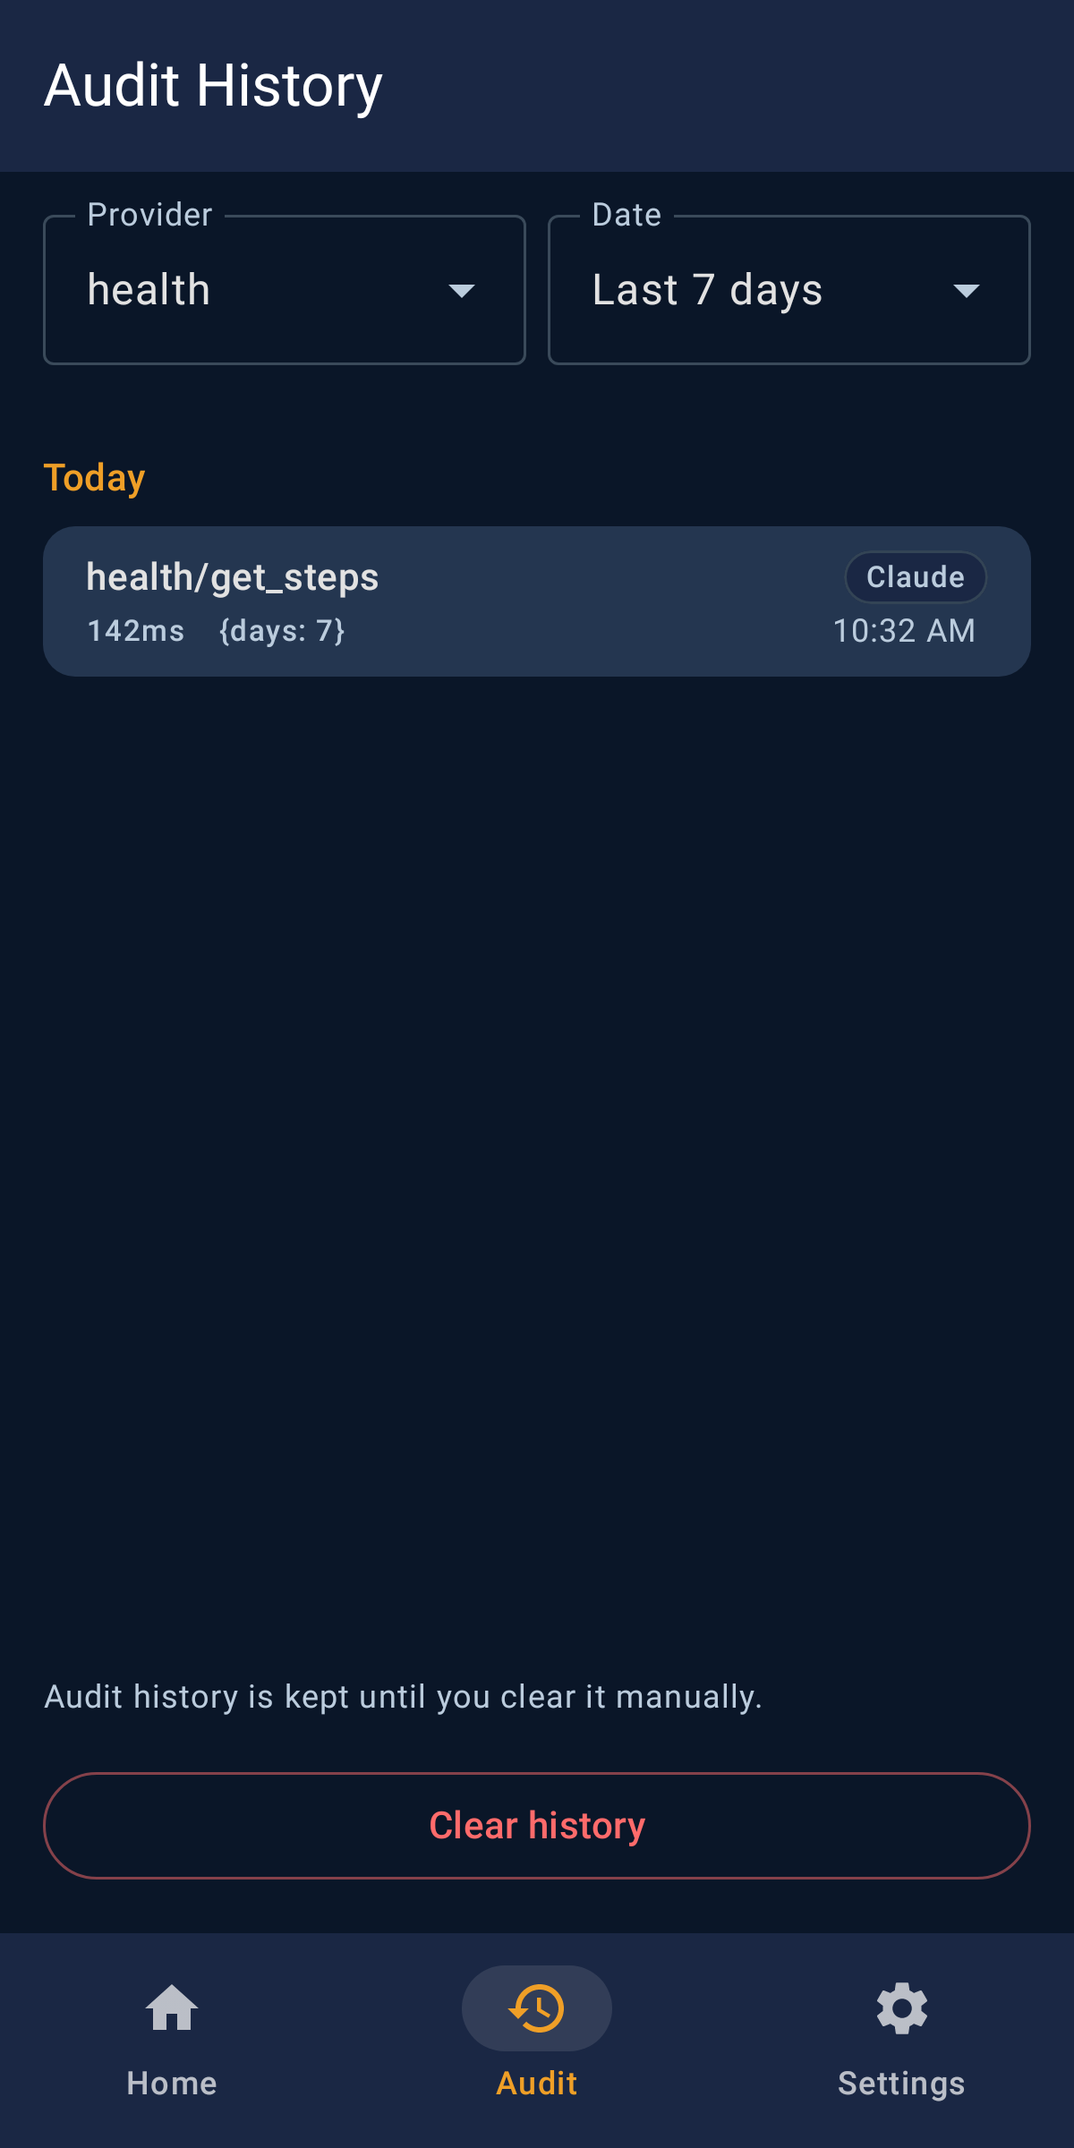
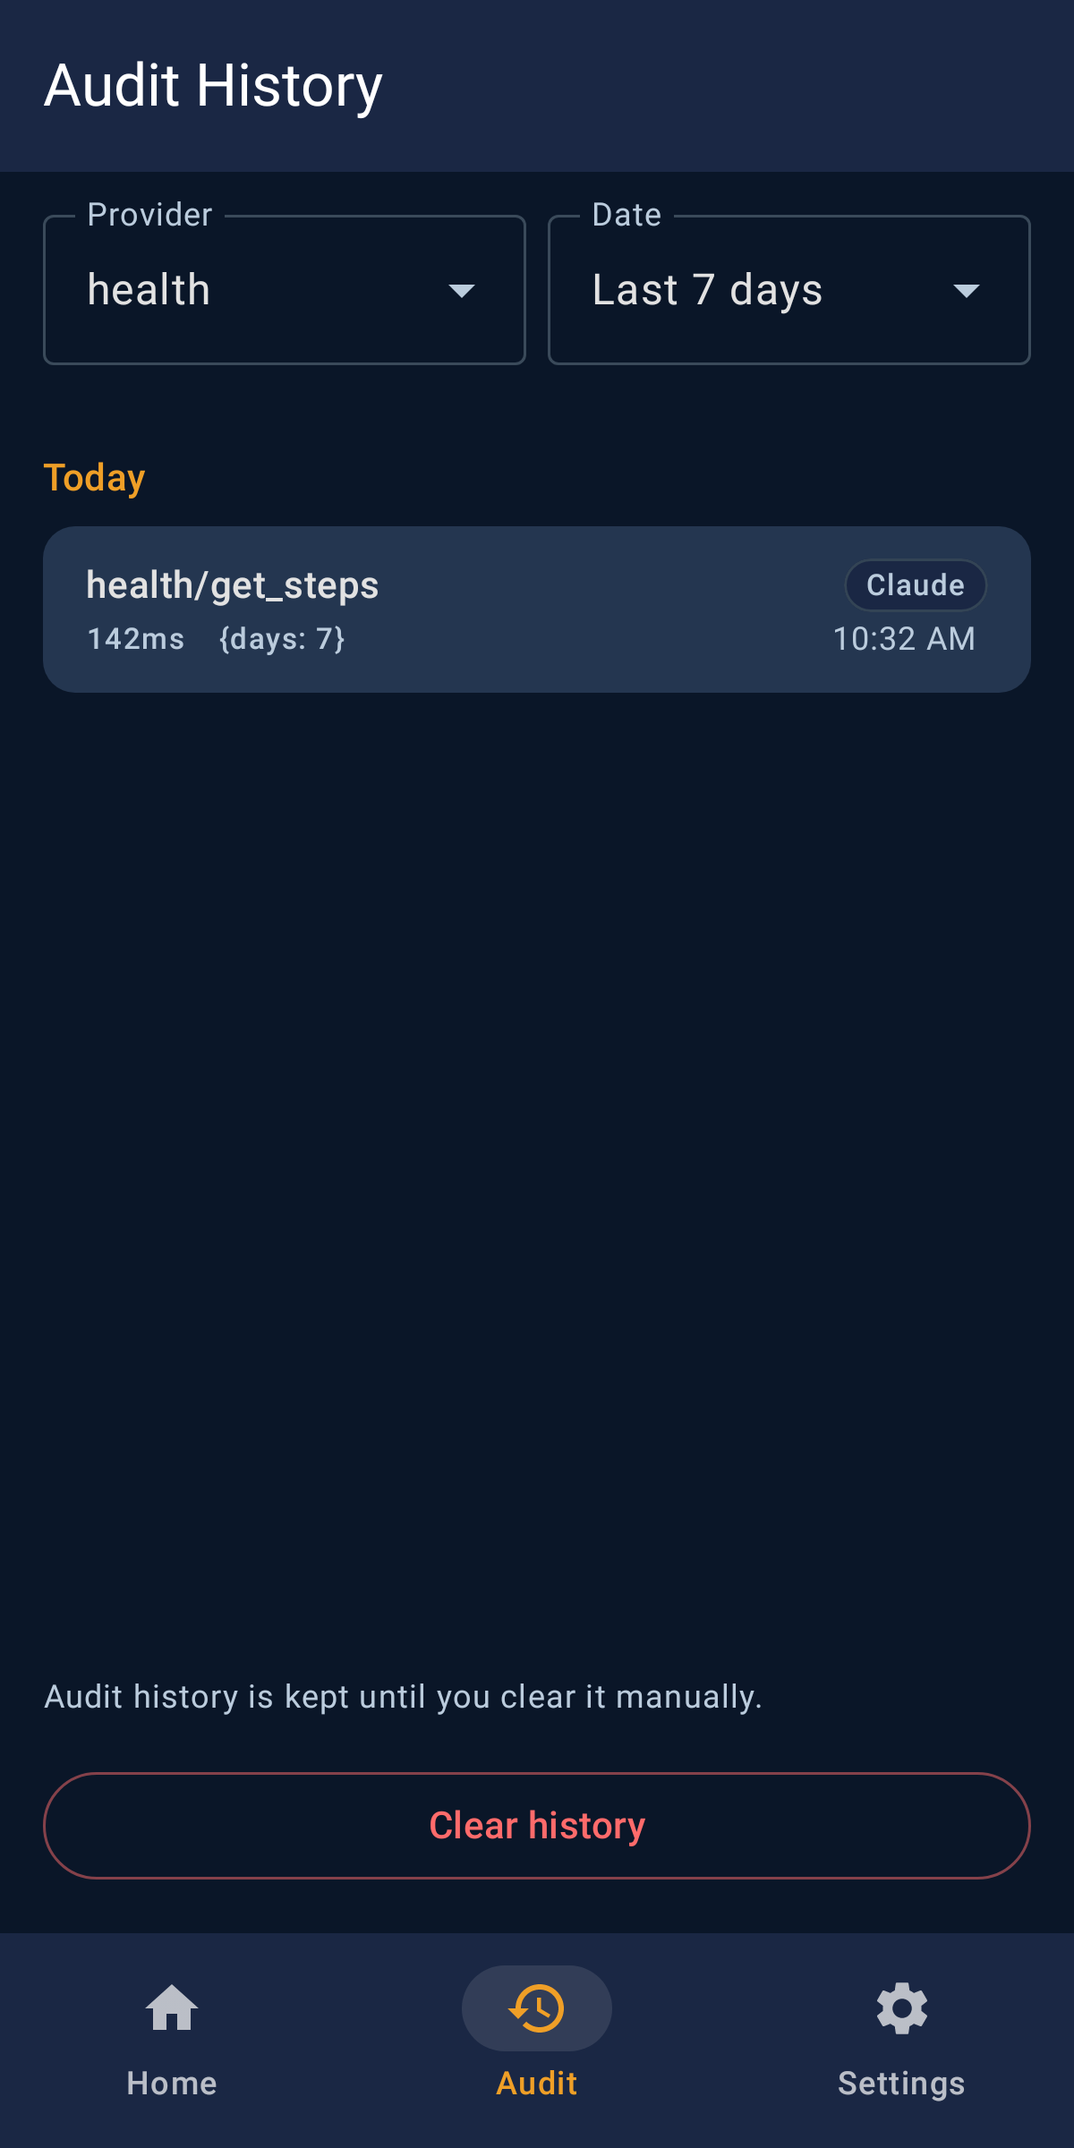
Fix #383: ToolCallRow multi-line padding + top-align time + never render ciphertext fallback
Three tightly-coupled bugs in the shared audit-row surfaces:

1. ListRow previously used `defaultMinSize(minHeight = 56.dp)` with no
   vertical padding. Single-line rows looked right (floor set by
   min-height, content centered) but multi-line content (e.g. a long
   JSON `arguments` string in ToolCallRow) grew the row height and then
   pressed flush against the top and bottom edges of the card. Replace
   the min-height floor with `padding(vertical = 12.dp)`: single-line
   rows keep a ~48 dp height which matches existing density, multi-line
   rows now have breathing room. Applied to `ListRow`,
   `ListRowWithIcon`, and `ListRowWithTrailing`.

2. `AuditHistoryViewModel.toHistoryEntry` fell back to the raw
   `entry.argumentsJson` / `entry.resultJson` columns whenever the
   FieldEncryptor was null or `decrypt()` returned null. Those columns
   hold ciphertext at rest, so the fallback rendered base64-looking
   blobs into the dashboard's Recent Activity teaser and the audit
   detail screen. Root cause of the null-encryptor path was that
   MainDashboardViewModel and IntegrationManageViewModel never received
   the encryptor. Fix both:
   - Remove the raw-column fallback everywhere. Render "" (empty) when
     decrypt is unavailable; ciphertext is never rendered as plaintext
     even if future call sites forget to wire the encryptor.
   - Thread `FieldEncryptor` through MainDashboardViewModel and
     IntegrationManageViewModel via Koin so production paths always
[…]

Changed region(s): [[0.0308, 0.25, 0.9558, 0.3438]]

diff --git a/app/src/test/java/com/rousecontext/app/ui/viewmodels/AuditHistoryViewModelTest.kt b/app/src/test/java/com/rousecontext/app/ui/viewmodels/AuditHistoryViewModelTest.kt
@@ -7,6 +7,7 @@ import com.rousecontext.api.PostSessionMode
 import com.rousecontext.app.ui.screens.AuditHistoryItem
 import com.rousecontext.app.ui.screens.DateFilterOption
 import com.rousecontext.app.ui.screens.ProviderFilterOption
+import com.rousecontext.notifications.FieldEncryptor
 import com.rousecontext.notifications.audit.AuditDao
 import com.rousecontext.notifications.audit.AuditEntry
 import com.rousecontext.notifications.audit.McpRequestDao
@@ -284,6 +285,76 @@ class AuditHistoryViewModelTest {
         val (start, end) = AuditHistoryViewModel.dateRangeFor(DateFilterOption.TODAY)
         assertTrue(start <= System.currentTimeMillis())
         assertTrue(end >= start)
+    }
+
+    @Test
+    fun `toHistoryEntry returns empty arguments when fieldEncryptor is null`() {
+        // Regression for #383: when no FieldEncryptor is provided (for example in
+        // surfaces that haven't been wired yet), the raw argumentsJson column
+        // contains ciphertext and MUST NOT be rendered as the plain-text args.
+        val entry = AuditEntry(
+            id = 1,
+            sessionId = "s1",
+            toolName = "get_steps",
+            provider = "health",
+            timestampMillis = 1_000L,
+            durationMillis = 42,
+            success = true,
+            argumentsJson = "Base64EncryptedBlob==",
+            resultJson = "AnotherCipherBlob=="
+        )
+        val view = AuditHistoryViewModel.toHistoryEntry(entry, fieldEncryptor = null)
+        assertEquals("", view.arguments)
+        assertEquals(null, view.argumentsJson)
+        assertEquals(null, view.resultJson)
+    }
+
+    @Test
+    fun `toHistoryEntry returns empty arguments when decrypt returns null`() {
+        // Regression for #383: FieldEncryptor.decrypt returns null on malformed
+        // ciphertext, key rotation, etc. The view MUST render "" rather than
+        // the raw ciphertext from the DB row.
+        val encryptor = mockk<FieldEncryptor> {
+            every { decrypt(any()) } returns null
+        }
+        val entry = AuditEntry(
+            id = 1,
+            sessionId = "s1",
+            toolName = "get_steps",
+            provider = "health",
+            timestampMillis = 1_000L,
+            durationMillis = 42,
+            success = true,
+            argumentsJson = "Base64EncryptedBlob==",
+            resultJson = "AnotherCipherBlob=="
+        )
+        val view = AuditHistoryViewModel.toHistoryEntry(entry, fieldEncryptor = encryptor)
+        assertEquals("", view.arguments)
+        assertEquals(null, view.argumentsJson)
+        assertEquals(null, view.resultJson)
+    }
+
+    @Test
+    fun `toHistoryEntry uses decrypted plaintext when available`() {
+        val encryptor = mockk<FieldEncryptor> {
+            every { decrypt("cipherArgs") } returns """{"days":7}"""
+            every { decrypt("cipherResult") } returns """{"total":5}"""
+        }
+        val entry = AuditEntry(
+            id = 1,
+            sessionId = "s1",
+            toolName = "get_steps",
+            provider = "health",
+            timestampMillis = 1_000L,
+            durationMillis = 42,
+            success = true,
+            argumentsJson = "cipherArgs",
+            resultJson = "cipherResult"
+        )
+        val view = AuditHistoryViewModel.toHistoryEntry(entry, fieldEncryptor = encryptor)
+        assertEquals("""{"days":7}""", view.arguments)
+        assertEquals("""{"days":7}""", view.argumentsJson)
+        assertEquals("""{"total":5}""", view.resultJson)
     }
 
     private fun createEntry(id: Long, timestampMillis: Long, toolName: String): AuditEntry =

diff --git a/app/src/test/java/com/rousecontext/app/ui/screenshots/ScreenScreenshotTest.kt b/app/src/test/java/com/rousecontext/app/ui/screenshots/ScreenScreenshotTest.kt
@@ -679,6 +679,16 @@ class ScreenScreenshotTest {
     }
 
     @Test
+    fun auditHistoryLongArgsDark() = captureDark("34b_audit_history_long_args") {
+        AuditHistoryScreen(state = auditHistoryLongArgsState())
+    }
+
+    @Test
+    fun auditHistoryLongArgsLight() = captureLight("34b_audit_history_long_args") {
+        AuditHistoryScreen(state = auditHistoryLongArgsState())
+    }
+
+    @Test
     fun auditHistoryEmptyDark() = captureDark("35_audit_history_empty") {
         AuditHistoryScreen()
     }
@@ -1064,6 +1074,42 @@ class ScreenScreenshotTest {
                         durationMs = 156,
                         arguments = "{days: 30}",
                         clientLabel = "Unknown (#1)"
+                    )
+                )
+            )
+        )
+    )
+
+    /**
+     * #383 regression: long `arguments` JSON wraps to multiple lines. Locks in
+     * the shared-row vertical padding and the `Alignment.Top` fix so the time
+     * stays pinned to the first wrapped line and the row itself has breathing
+     * room top/bottom.
+     */
+    private fun auditHistoryLongArgsState() = AuditHistoryState(
+        groups = listOf(
+            AuditHistoryGroup.ofEntries(
+                "Today",
+                listOf(
+                    AuditHistoryEntry(
+                        time = "10:32 AM",
+                        toolName = "health/get_exercise_sessions",
+                        durationMs = 287,
+                        arguments = "{ \"type\": \"ExerciseSessionRecord\", " +
+                            "\"start\": \"2026-04-15T09:00:00Z\", " +
+                            "\"end\": \"2026-04-15T10:30:00Z\", " +
+                            "\"limit\": 100, \"filters\": { " +
+                            "\"activities\": [\"running\", \"walking\"], " +
+                            "\"min_duration_minutes\": 15, " +
+                            "\"include_metadata\": true } }",
+                        clientLabel = "Claude Desktop"
+                    ),
+                    AuditHistoryEntry(
+                        time = "10:31 AM",
+                        toolName = "health/get_steps",
+                        durationMs = 142,
+                        arguments = "{days: 7}",
+                        clientLabel = "Claude"
                     )
                 )
             )

diff --git a/app/src/main/java/com/rousecontext/app/ui/components/DesignSystem.kt b/app/src/main/java/com/rousecontext/app/ui/components/DesignSystem.kt
@@ -74,6 +74,16 @@ fun SectionHeader(text: String) {
     )
 }
 
+/**
+ * Vertical padding applied to every list row. Replaces the prior
+ * `defaultMinSize(minHeight = 56.dp)` floor so multi-line content (e.g.
+ * wrapping tool-call arguments in the audit history) no longer presses flush
+ * against the row's top and bottom edges (#383). Single-line rows still
+ * look right: a 24 dp body text plus 12 dp padding top/bottom comes out
+ * around 48 dp, close to the prior 56 dp floor without the flush wrap.
+ */
+private val LIST_ROW_VERTICAL_PADDING = 12.dp
+
 @Composable
 fun ListRow(
     modifier: Modifier = Modifier,
@@ -85,8 +95,10 @@ fun ListRow(
         modifier = modifier
             .fillMaxWidth()
             .then(clickMod)
-            .defaultMinSize(minHeight = 56.dp)
-            .padding(horizontal = dimensionResource(R.dimen.spacing_lg)),
+            .padding(
+                horizontal = dimensionResource(R.dimen.spacing_lg),
+                vertical = LIST_ROW_VERTICAL_PADDING
+            ),
         verticalAlignment = Alignment.CenterVertically
     ) {
         content()
@@ -106,8 +118,10 @@ fun ListRowWithIcon(
         modifier = modifier
             .fillMaxWidth()
             .then(clickMod)
-            .defaultMinSize(minHeight = 56.dp)
-            .padding(horizontal = dimensionResource(R.dimen.spacing_lg)),
+            .padding(
+                horizontal = dimensionResource(R.dimen.spacing_lg),
+                vertical = LIST_ROW_VERTICAL_PADDING
+            ),
         verticalAlignment = Alignment.CenterVertically
     ) {
         Icon(
@@ -133,8 +147,10 @@ fun ListRowWithTrailing(
         modifier = modifier
             .fillMaxWidth()
             .then(clickMod)
-            .defaultMinSize(minHeight = 56.dp)
-            .padding(horizontal = dimensionResource(R.dimen.spacing_lg)),
+            .padding(
+                horizontal = dimensionResource(R.dimen.spacing_lg),
+                vertical = LIST_ROW_VERTICAL_PADDING
+            ),
         verticalAlignment = Alignment.CenterVertically,
         horizontalArrangement = Arrangement.SpaceBetween
     ) {

diff --git a/app/src/main/java/com/rousecontext/app/ui/viewmodels/MainDashboardViewModel.kt b/app/src/main/java/com/rousecontext/app/ui/viewmodels/MainDashboardViewModel.kt
@@ -15,6 +15,7 @@ import com.rousecontext.app.ui.screens.IntegrationStatus
 import com.rousecontext.app.ui.screens.NotificationBanner
 import com.rousecontext.app.ui.screens.SpuriousWakeBanner
 import com.rousecontext.mcp.core.TokenStore
+import com.rousecontext.notifications.FieldEncryptor
 import com.rousecontext.notifications.audit.AuditDao
 import com.rousecontext.tunnel.TunnelClient
 import com.rousecontext.tunnel.TunnelState
@@ -45,6 +46,14 @@ class MainDashboardViewModel(
     private val auditDao: AuditDao,
     private val urlProvider: McpUrlProvider,
     tunnelClient: TunnelClient,
+    /**
+     * Decrypts the `argumentsJson` / `resultJson` columns on audit entries
+     * rendered in the Recent Activity teaser. Nullable so test harnesses and
+     * future non-encrypting call sites can opt out, but production MUST pass
+     * a real instance — without it, `toHistoryEntry` renders an empty args
+     * string rather than the ciphertext (#383).
+     */
+    private val fieldEncryptor: FieldEncryptor? = null,
     certRenewalBanner: Flow<CertBanner?> = flowOf(null),
     notificationsEnabled: Flow<Boolean> = flowOf(true),
     spuriousWakesFlow: Flow<SpuriousWakeStats> = flowOf(SpuriousWakeStats.EMPTY),
@@ -126,7 +135,7 @@ class MainDashboardViewModel(
         }
 
         val recent = recentEntries.map { entry ->
-            AuditHistoryViewModel.toHistoryEntry(entry)
+            AuditHistoryViewModel.toHistoryEntry(entry, fieldEncryptor)
         }
 
         val hasMoreToAdd = integrations.any { integration ->

diff --git a/app/src/main/java/com/rousecontext/app/ui/viewmodels/IntegrationManageViewModel.kt b/app/src/main/java/com/rousecontext/app/ui/viewmodels/IntegrationManageViewModel.kt
@@ -11,6 +11,7 @@ import com.rousecontext.app.ui.screens.IntegrationManageState
 import com.rousecontext.app.ui.screens.IntegrationStatus
 import com.rousecontext.mcp.core.TokenInfo
 import com.rousecontext.mcp.core.TokenStore
+import com.rousecontext.notifications.FieldEncryptor
 import com.rousecontext.notifications.audit.AuditDao
 import com.rousecontext.notifications.audit.AuditEntry
 import java.text.SimpleDateFormat
@@ -45,7 +46,14 @@ class IntegrationManageViewModel(
     private val stateStore: IntegrationStateStore,
     private val tokenStore: TokenStore,
     private val auditDao: AuditDao,
-    private val urlProvider: McpUrlProvider
+    private val urlProvider: McpUrlProvider,
+    /**
+     * Decrypts the `argumentsJson` / `resultJson` columns on audit entries
+     * shown in the integration-manage Recent Activity list. Nullable for the
+     * same reason as [MainDashboardViewModel.fieldEncryptor]; production MUST
+     * pass a real instance so rows are not rendered as ciphertext (#383).
+     */
+    private val fieldEncryptor: FieldEncryptor? = null
 ) : ViewModel() {
 
     private val integrationId = MutableStateFlow("")
@@ -95,7 +103,7 @@ class IntegrationManageViewModel(
         )
 
         val recent = auditEntries.take(RECENT_LIMIT).map { entry ->
-            AuditHistoryViewModel.toHistoryEntry(entry)
+            AuditHistoryViewModel.toHistoryEntry(entry, fieldEncryptor)
         }
 
         val clients = tokenList.map { token ->

diff --git a/integrations/src/test/java/com/rousecontext/integrations/notifications/NotificationMcpToolExecutionTest.kt b/integrations/src/test/java/com/rousecontext/integrations/notifications/NotificationMcpToolExecutionTest.kt
@@ -87,8 +87,16 @@ class NotificationMcpToolExecutionTest {
         database.close()
     }
 
+    /**
+     * Default to a passthrough encryptor so tests that insert plaintext
+     * records via [record] continue to see that text surface in the MCP tool
+     * output. The production code path no longer falls back to the raw
+     * column when the encryptor is null (#383): production always has a
+     * real encryptor, and a test that wants the "no encryptor" shape can
+     * explicitly pass [fieldEncryptor] = null.
+     */
     private fun registerProvider(
-        fieldEncryptor: FieldEncryptor? = null,
+        fieldEncryptor: FieldEncryptor? = passthroughEncryptor(),
         allowActions: Boolean = true
     ): NotificationMcpProvider = NotificationMcpProvider(
         dao = dao,
@@ -104,6 +112,11 @@ class NotificationMcpToolExecutionTest {
         fieldEncryptor = fieldEncryptor,
         allowActions = allowActions
     ).also { it.register(server) }
+
+    private fun passthroughEncryptor(): FieldEncryptor = mockk {
+        every { decrypt(any()) } answers { firstArg() }
+        every { decrypt(null) } returns null
+    }
 
     private suspend fun call(name: String, args: Map<String, Any> = emptyMap()): CallToolResult {
         val handler = toolHandlers[name] ?: error("Tool not registered: $name")

diff --git a/app/src/main/java/com/rousecontext/app/ui/navigation/destinations/AuditDetailDestination.kt b/app/src/main/java/com/rousecontext/app/ui/navigation/destinations/AuditDetailDestination.kt
@@ -51,12 +51,12 @@ fun NavGraphBuilder.auditDetailDestination(navController: NavController) {
                         provider = entry.provider,
                         timestampMillis = entry.timestampMillis,
                         durationMs = entry.durationMillis,
-                        argumentsJson = fieldEncryptor.decrypt(
-                            entry.argumentsJson
-                        ) ?: entry.argumentsJson,
-                        resultJson = fieldEncryptor.decrypt(
-                            entry.resultJson
-                        ) ?: entry.resultJson
+                        // #383: NEVER fall back to the raw columns — they hold
+                        // ciphertext at rest. When decrypt returns null (key
+                        // rotation, corrupt row, etc.) render nothing instead
+                        // of leaking the encrypted blob into the detail UI.
+                        argumentsJson = fieldEncryptor.decrypt(entry.argumentsJson),
+                        resultJson = fieldEncryptor.decrypt(entry.resultJson)
                     )
                 )
             } else {

diff --git a/app/src/main/java/com/rousecontext/app/ui/viewmodels/AuditHistoryViewModel.kt b/app/src/main/java/com/rousecontext/app/ui/viewmodels/AuditHistoryViewModel.kt
@@ -185,10 +185,13 @@ class AuditHistoryViewModel(
             entry: AuditEntry,
             fieldEncryptor: FieldEncryptor? = null
         ): AuditHistoryEntry {
+            // #383: NEVER fall back to the raw argumentsJson/resultJson columns.
+            // Those columns contain ciphertext at rest. If we have no encryptor
+            // (surface wired without one) or decrypt returns null (malformed
+            // row, key rotation, etc.) the safe choice is to render nothing;
+            // anything else leaks ciphertext into the UI or across the MCP wire.
             val decryptedArgs = fieldEncryptor?.decrypt(entry.argumentsJson)
-                ?: entry.argumentsJson
             val decryptedResult = fieldEncryptor?.decrypt(entry.resultJson)
-                ?: entry.resultJson
             return AuditHistoryEntry(
                 id = entry.id,
                 time = TIME_FORMAT.format(Date(entry.timestampMillis)),

diff --git a/integrations/src/main/java/com/rousecontext/integrations/notifications/NotificationMcpProvider.kt b/integrations/src/main/java/com/rousecontext/integrations/notifications/NotificationMcpProvider.kt
@@ -266,8 +266,11 @@ private fun recordToJson(record: NotificationRecord, fieldEncryptor: FieldEncryp
     buildJsonObject {
         put("id", JsonPrimitive(record.id))
         put("package", JsonPrimitive(record.packageName))
-        val title = fieldEncryptor?.decrypt(record.title) ?: record.title
-        val text = fieldEncryptor?.decrypt(record.text) ?: record.text
+        // #383: NEVER fall back to record.title / record.text — those columns
+        // hold ciphertext at rest. Returning ciphertext over MCP would leak
+        // base64 blobs into the AI response and burn tokens for nothing.
+        val title = fieldEncryptor?.decrypt(record.title)
+        val text = fieldEncryptor?.decrypt(record.text)
         put("title", JsonPrimitive(title ?: ""))
         put("text", JsonPrimitive(text ?: ""))
         put("time", JsonPrimitive(record.postedAt))

diff --git a/app/src/main/java/com/rousecontext/app/di/AppModule.kt b/app/src/main/java/com/rousecontext/app/di/AppModule.kt
@@ -590,6 +590,7 @@ val appModule = module {
             auditDao = get(),
             urlProvider = get(),
             tunnelClient = get(),
+            fieldEncryptor = get(),
             certRenewalBanner = com.rousecontext.app.cert.certRenewalBannerFlow(get()),
             notificationsEnabled = notificationPermissionFlow(
                 context = androidContext(),
@@ -599,7 +600,7 @@ val appModule = module {
         )
     }
     viewModel { AddIntegrationViewModel(get(), get(), get()) }
-    viewModel { IntegrationManageViewModel(get(), get(), get(), get(), get()) }
+    viewModel { IntegrationManageViewModel(get(), get(), get(), get(), get(), get()) }
     viewModel { AuditHistoryViewModel(get(), get(), get(), get()) }
     viewModel {
         SettingsViewModel(

diff --git a/app/src/main/java/com/rousecontext/app/ui/components/ToolCallRow.kt b/app/src/main/java/com/rousecontext/app/ui/components/ToolCallRow.kt
@@ -65,7 +65,11 @@ fun ToolCallRow(entry: AuditHistoryEntry, onClick: (() -> Unit)? = null) {
             Spacer(modifier = Modifier.height(2.dp))
             Row(
                 modifier = Modifier.fillMaxWidth(),
-                verticalAlignment = Alignment.CenterVertically
+                // #383: top-align so when the args text wraps to multiple
+                // lines the timestamp on the right stays pinned to row two's
+                // first line rather than floating to the vertical center of
+                // the wrapped block.
+                verticalAlignment = Alignment.Top
             ) {
                 Row(modifier = Modifier.weight(1f)) {
                     Text(
